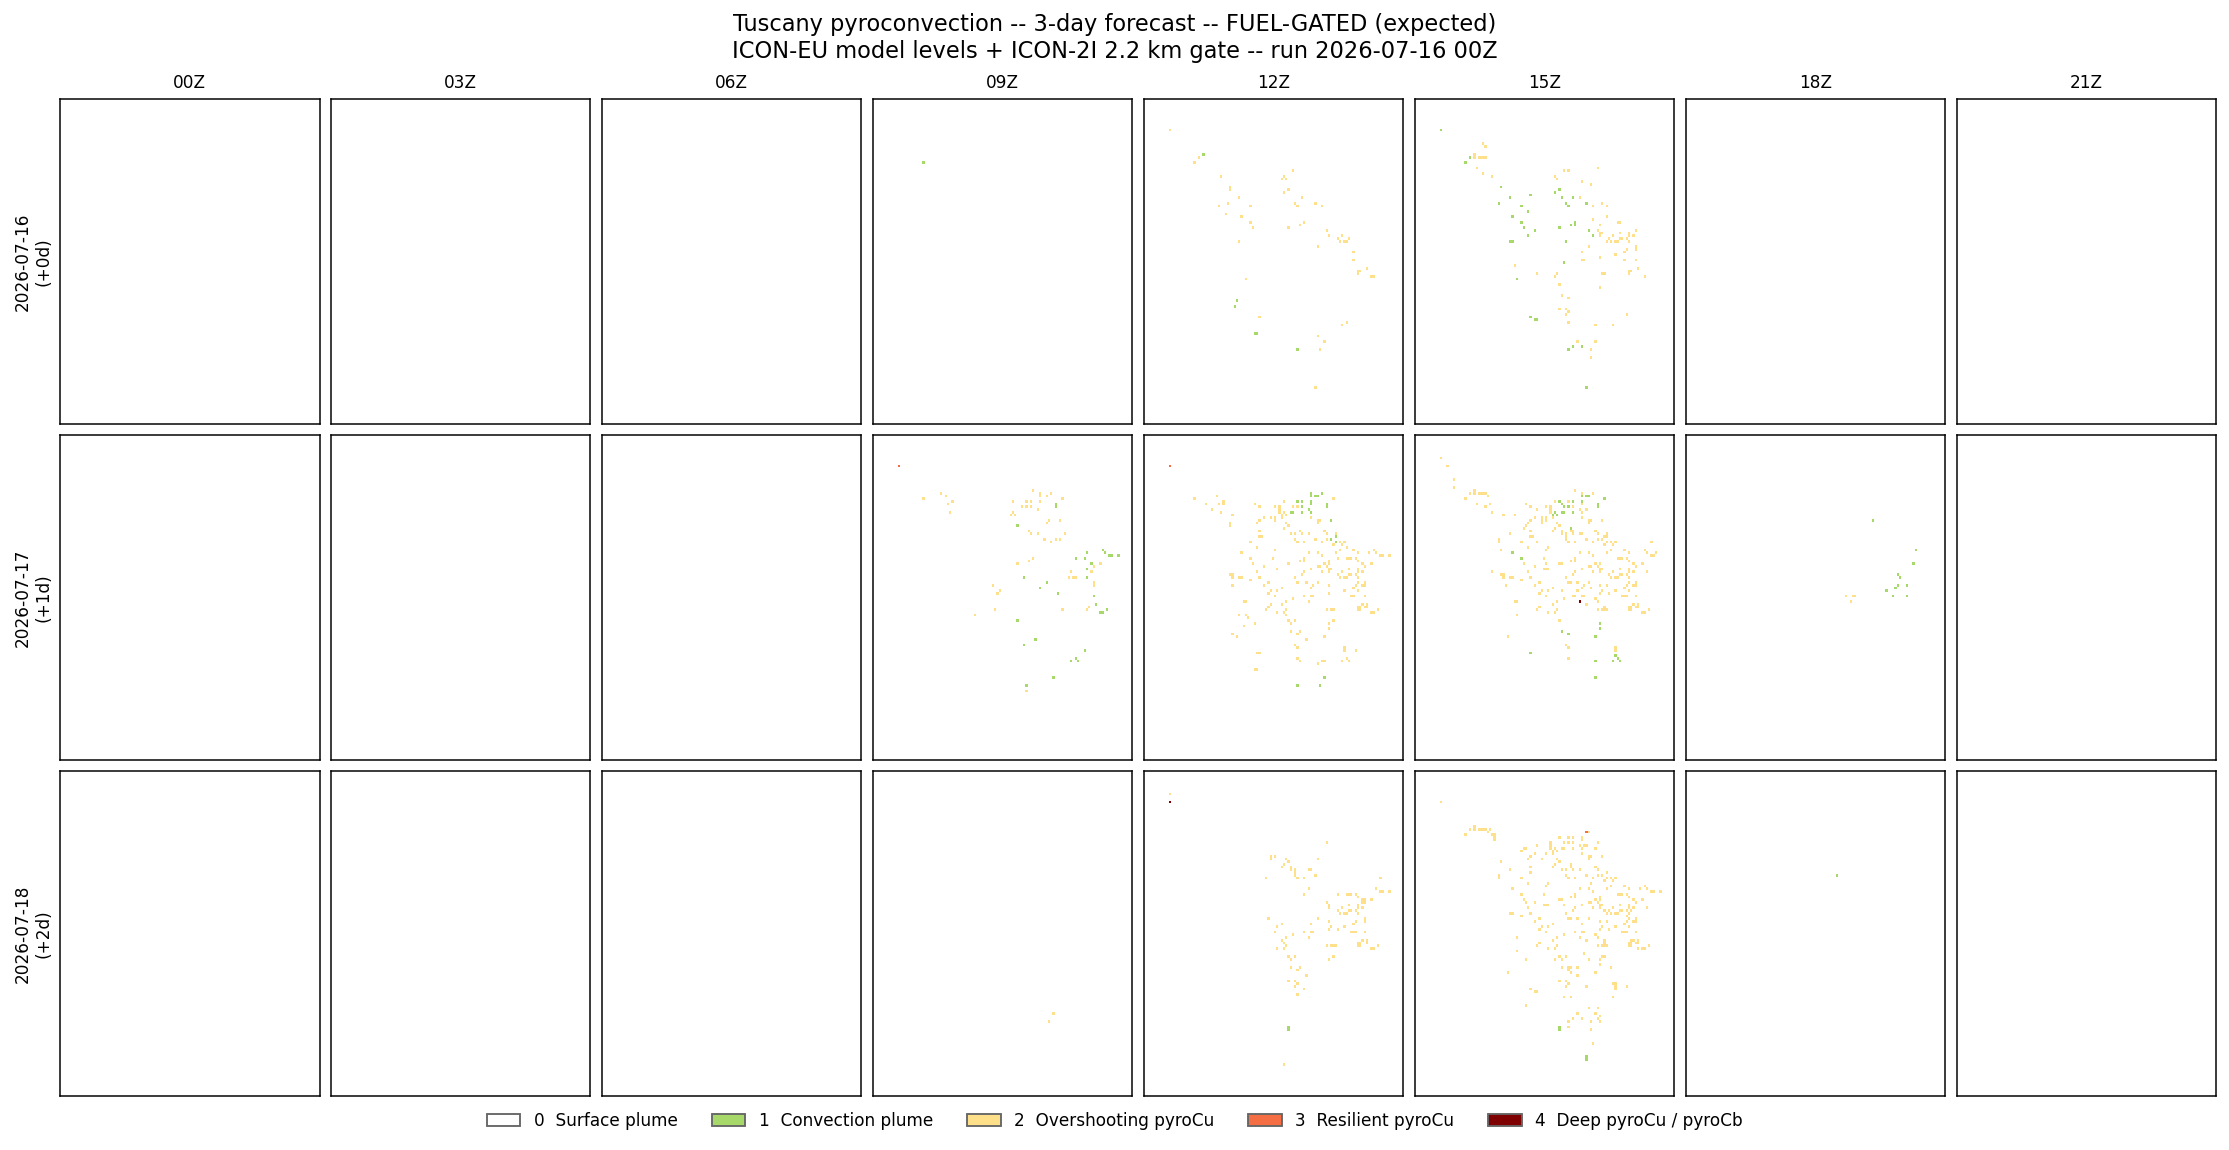
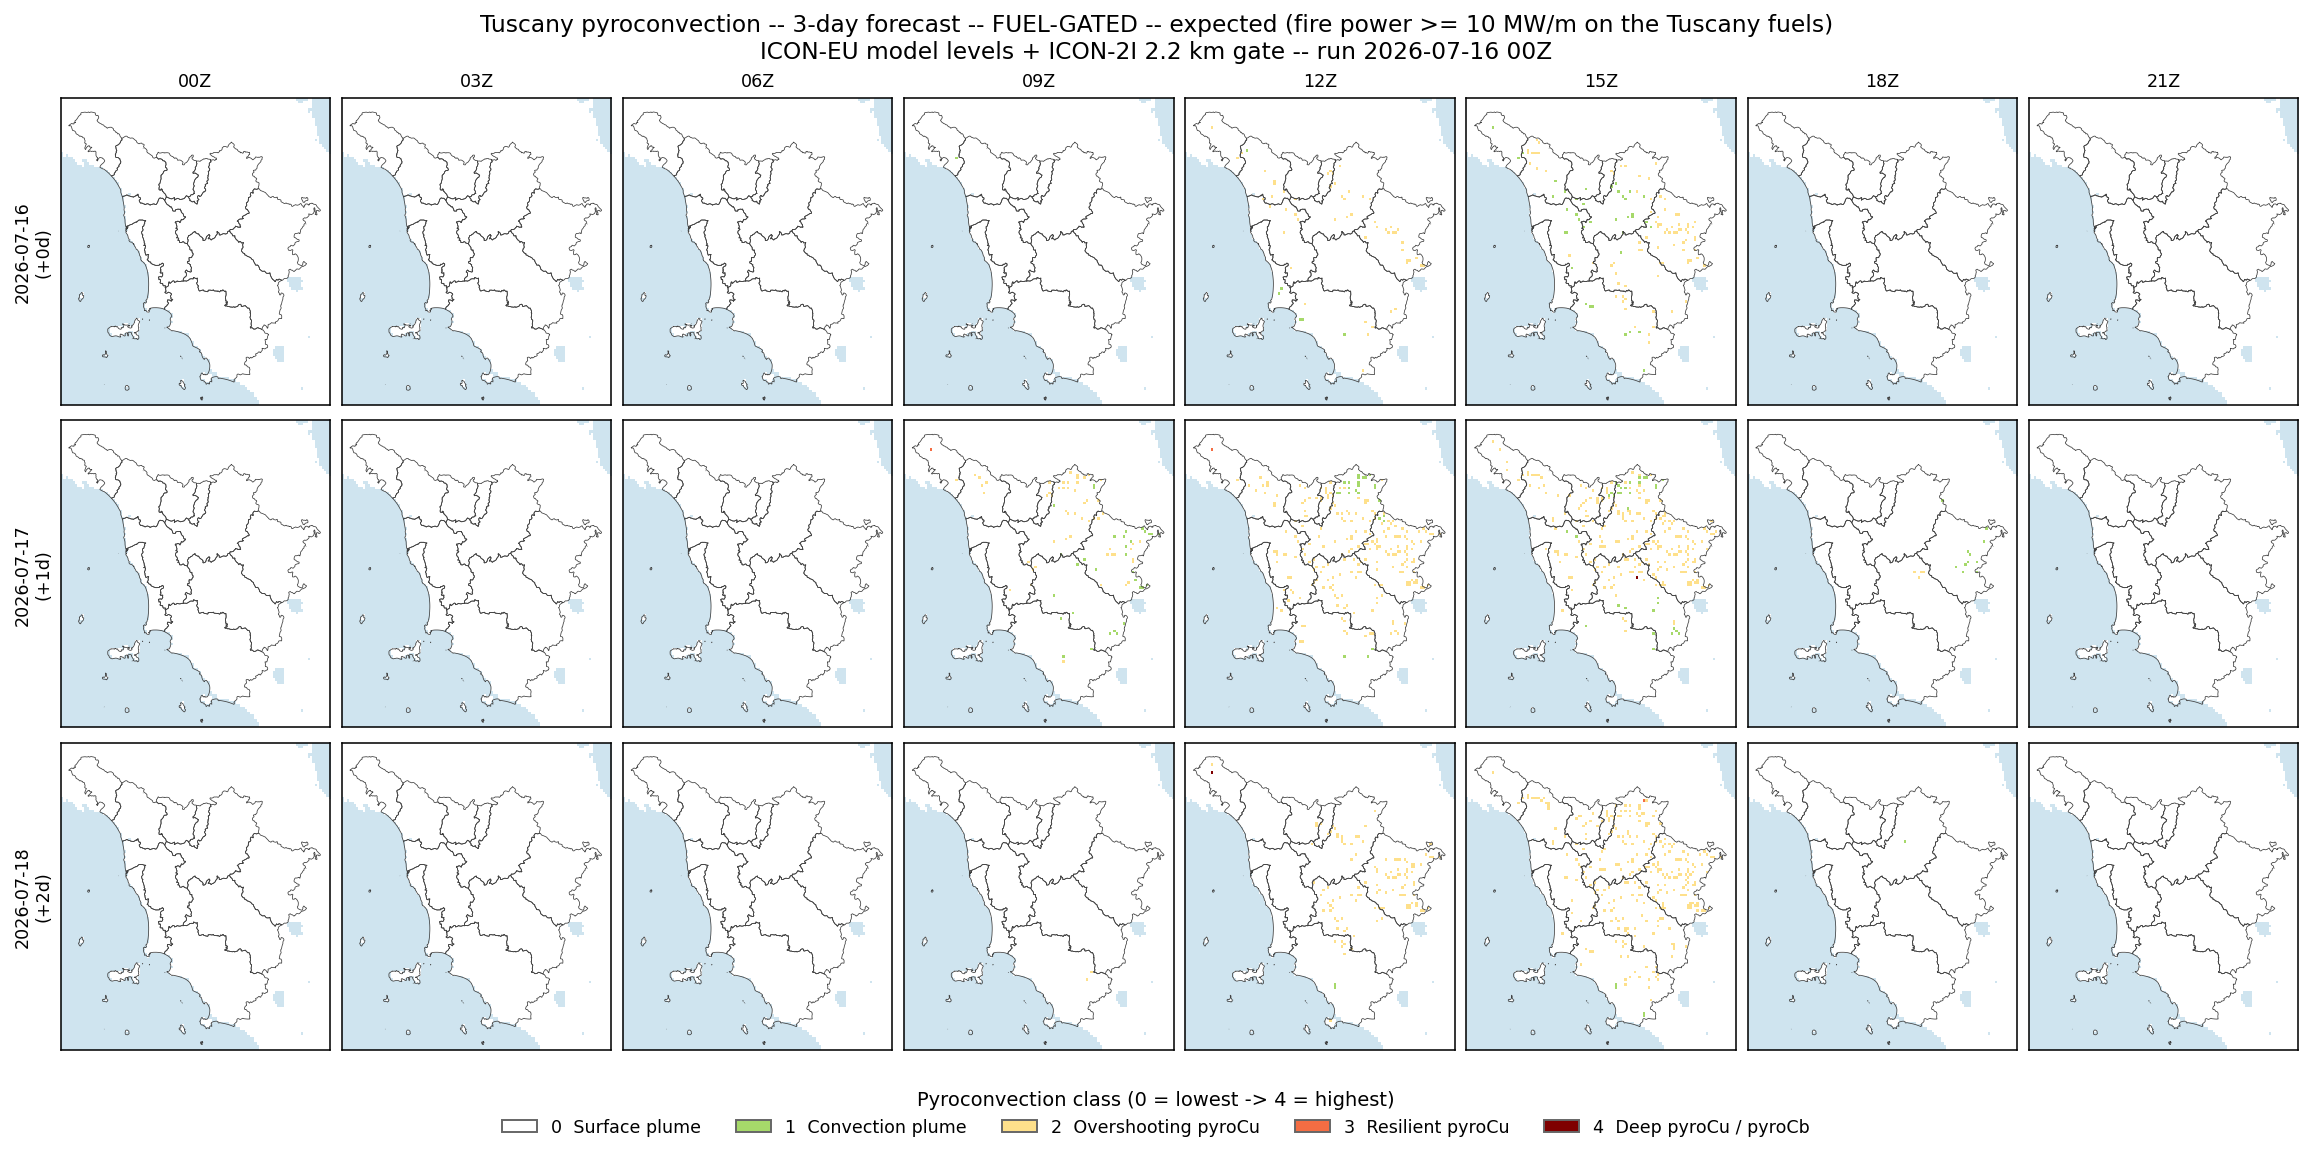
feat(pyroconv): style the 3-day forecast figures like the operational WRF product
Rewrites the combined potential/gated figures in scripts/forecast_3day_tuscany.py to match the
reference operational layout: geographic Tuscany panels (real lon/lat extent), sea masked in
light blue via ICON-2I FR_LAND, ISTAT province borders, and a labelled class legend -- instead
of the bare colour grids. The report keeps the two distinct sections (POTENTIAL upper bound and
FUEL-GATED expected), each a 3-day x 8-hour grid.

The 2026-07-16 00Z run (valid 07-16..07-18) is regenerated with the new styling. The escalating
trend is now legible against the map: deep pyroCu/pyroCb over the northern Apennines grows toward
day+2 in the potential map, while the gated map stays a sparse midday scatter over the wooded
interior.

diff --git a/scripts/forecast_3day_tuscany.py b/scripts/forecast_3day_tuscany.py
@@ -31,6 +31,47 @@ RUNDT = datetime.strptime(RUNDATE, "%Y-%m-%d")
 DAYS = [(RUNDT + timedelta(days=k)).strftime("%Y-%m-%d") for k in (0, 1, 2)]
 HOURS = [0, 3, 6, 9, 12, 15, 18, 21]
 OUT = os.environ.get("PYROCONV_OUT") or os.path.join(REPO, "docs", f"forecast_{RUNDATE}_3day")
+LON0, LON1, LAT0, LAT1 = 9.6, 12.5, 42.2, 44.6            # Tuscany bbox (matches the daily runner)
+CACHE = os.environ.get("PYROCONV_CACHE") or f"/tmp/pyflam_icon2i/{RUNDT:%Y%m%d}{RUN:02d}"
+PROV_GEOJSON = (os.environ.get("PYROCONV_PROVINCES")
+                or "/Users/cristianofoderi/DATI/boundaries/limits_IT_provinces.geojson")
+SEA_COLOR = "#cfe4ef"
+
+
+def sea_mask(lat, lon):
+    """ICON-2I land fraction on the raster grid -> sea (frland < 0.5) as True, or None."""
+    import warnings
+    warnings.simplefilter("ignore")
+    import xarray as xr
+    path = os.path.join(CACHE, "FRLAND.grib")
+    if not os.path.exists(path):
+        return None
+    ds = xr.open_dataset(path, engine="cfgrib", backend_kwargs={"indexpath": ""})
+    v = list(ds.data_vars)[0]
+    la = ds["latitude"].values
+    ds = (ds.sel(latitude=slice(LAT1, LAT0), longitude=slice(LON0, LON1)) if la[0] > la[-1]
+          else ds.sel(latitude=slice(LAT0, LAT1), longitude=slice(LON0, LON1)))
+    fr = np.asarray(ds[v].values, float)
+    if ds["latitude"].values[0] < ds["latitude"].values[-1]:
+        fr = fr[::-1]                                    # north-up, to match the rasters
+    return fr < 0.5
+
+
+def provinces():
+    """Tuscany province boundaries clipped to the bbox, or None if unavailable."""
+    try:
+        import geopandas as gpd
+    except Exception:
+        return None
+    if not os.path.exists(PROV_GEOJSON):
+        return None
+    try:
+        g = gpd.read_file(PROV_GEOJSON)
+        if "reg_name" in g.columns:
+            g = g[g["reg_name"] == "Toscana"]
+        return g.clip((LON0, LAT0, LON1, LAT1)).boundary
+    except Exception:
+        return None
 
 
 def run_daily(valid):
@@ -42,35 +83,57 @@ def run_daily(valid):
 
 
 def load_stack(valid, kind):
+    """Class stack (nhours, ny, nx) + (lat, lon) 1-D arrays, from the daily rasters."""
     rdir = os.path.join(OUT, f"rasters_hybrid_{valid}")
-    arrs, transform = [], None
+    arrs, lat, lon = [], None, None
     for h in HOURS:
         with rasterio.open(os.path.join(rdir, f"pyroconv_{kind}_{h:02d}Z.tif")) as d:
-            arrs.append(d.read(1)); transform = d.transform
-    return np.stack(arrs), transform
+            arrs.append(d.read(1))
+            if lat is None:
+                t = d.transform
+                lon = t.c + t.a * (np.arange(d.width) + 0.5)
+                lat = t.f + t.e * (np.arange(d.height) + 0.5)      # north-up (t.e < 0)
+    return np.stack(arrs), lat, lon
 
 
 def combined_figure(kind, path):
+    """WRF-style day x hour grid: geographic panels, sea masked, province borders, legend."""
     import matplotlib; matplotlib.use("Agg")
     import matplotlib.pyplot as plt
     from matplotlib.colors import ListedColormap, BoundaryNorm
     from matplotlib.patches import Patch
-    cmap = ListedColormap([PYROCONVECTION_TYPE_COLOR[t] for t in PYROCONVECTION_TYPES])
-    norm = BoundaryNorm(np.arange(-0.5, 5.5, 1), cmap.N)
-    fig, ax = plt.subplots(len(DAYS), len(HOURS), figsize=(2.05 * len(HOURS), 2.7 * len(DAYS)),
+
+    # class colours preceded by a sea colour (index -1 = sea).
+    colors = [SEA_COLOR] + [PYROCONVECTION_TYPE_COLOR[t] for t in PYROCONVECTION_TYPES]
+    cmap = ListedColormap(colors)
+    norm = BoundaryNorm(np.arange(-1.5, 5.5, 1), cmap.N)
+    _, lat0, lon0 = load_stack(DAYS[0], kind)
+    ext = [lon0.min(), lon0.max(), lat0.min(), lat0.max()]
+    sea = sea_mask(lat0, lon0)
+    prov = provinces()
+
+    fig, ax = plt.subplots(len(DAYS), len(HOURS), figsize=(2.05 * len(HOURS), 2.5 * len(DAYS)),
                            constrained_layout=True, squeeze=False)
     for r, valid in enumerate(DAYS):
-        stack, _ = load_stack(valid, kind)
+        stack, _, _ = load_stack(valid, kind)
         for c, hour in enumerate(HOURS):
-            ax[r][c].imshow(stack[c], origin="upper", cmap=cmap, norm=norm,
-                            aspect="auto", interpolation="nearest")
-            ax[r][c].set_xticks([]); ax[r][c].set_yticks([])
+            a = stack[c].astype(float)
+            if sea is not None and sea.shape == a.shape:
+                a = np.where(sea, -1, a)                 # paint sea cells with the sea colour
+            axc = ax[r][c]
+            axc.imshow(a, origin="upper", extent=ext, cmap=cmap, norm=norm,
+                       aspect="auto", interpolation="nearest")
+            if prov is not None:
+                prov.plot(ax=axc, color="0.25", linewidth=0.4)
+                axc.set_xlim(ext[0], ext[1]); axc.set_ylim(ext[2], ext[3])
+            axc.set_xticks([]); axc.set_yticks([])
             if r == 0:
-                ax[r][c].set_title(f"{hour:02d}Z", fontsize=9)
+                axc.set_title(f"{hour:02d}Z", fontsize=9)
             if c == 0:
-                ax[r][c].set_ylabel(f"{valid}\n(+{r}d)", fontsize=9)
-    title = ("FUEL-GATED (expected)" if kind == "gated"
-             else "POTENTIAL (atmospheric upper bound)")
+                axc.set_ylabel(f"{valid}\n(+{r}d)", fontsize=9)
+    title = ("FUEL-GATED -- expected (fire power >= 10 MW/m on the Tuscany fuels)"
+             if kind == "gated"
+             else "POTENTIAL -- atmospheric upper bound (assumes a pyroCu-capable fire everywhere)")
     fig.suptitle(f"Tuscany pyroconvection -- 3-day forecast -- {title}\n"
                  f"ICON-EU model levels + ICON-2I 2.2 km gate -- run {RUNDATE} {RUN:02d}Z",
                  fontsize=12)
@@ -78,8 +141,9 @@ def combined_figure(kind, path):
                  label=f"{PYROCONVECTION_TYPE_LEVEL[t]}  {PYROCONVECTION_TYPE_LABEL[t]}")
            for t in PYROCONVECTION_TYPES]
     fig.legend(handles=leg, loc="lower center", ncol=5, fontsize=9, frameon=False,
-               bbox_to_anchor=(0.5, -0.04))
-    fig.savefig(path, dpi=135, bbox_inches="tight"); import matplotlib.pyplot as p; p.close(fig)
+               title="Pyroconvection class (0 = lowest -> 4 = highest)",
+               bbox_to_anchor=(0.5, -0.09))
+    fig.savefig(path, dpi=140, bbox_inches="tight"); plt.close(fig)
 
 
 def dist_table(kind):
@@ -91,7 +155,7 @@ def dist_table(kind):
     n = max(int(land.sum()), 1)
     rows = []
     for valid in DAYS:
-        st, _ = load_stack(valid, kind)
+        st = load_stack(valid, kind)[0]
         for hi, h in enumerate(HOURS):
             pct = [round(100 * ((st[hi] == c) & land).sum() / n, 1) for c in range(5)]
             rows.append((valid, h, pct))
